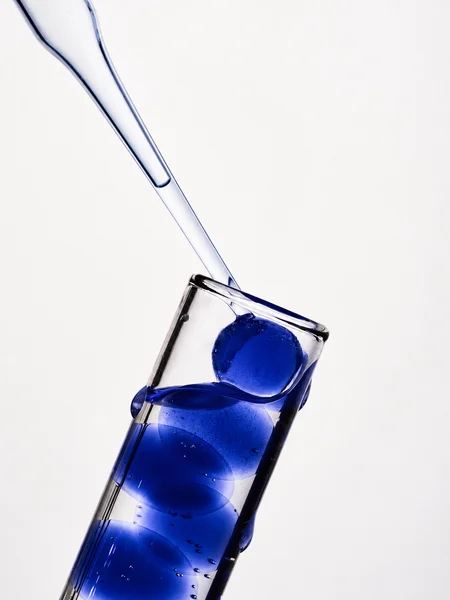
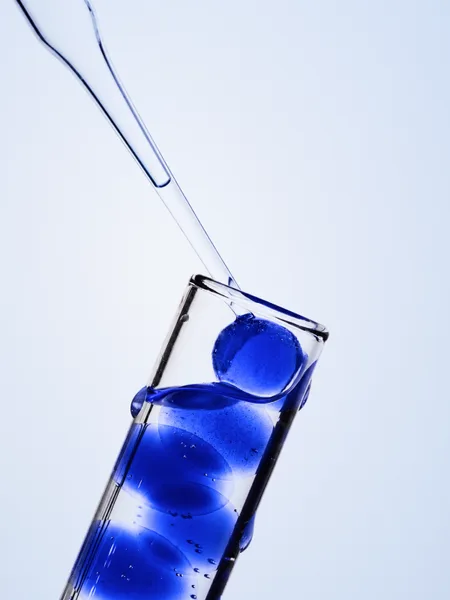
Исследования: новые фото пунктов списка

diff --git a/src/partials/home/research.html b/src/partials/home/research.html
@@ -59,7 +59,7 @@
         <div class="research-list__expand" data-js-research-expand>
           <div class="research-list__inner">
             <div class="research-list__media" data-js-research-content>
-              <img class="research-list__img" src="./assets/images/research-peptides.webp" alt="" width="300" height="400" loading="lazy">
+              <img class="research-list__img" src="./assets/images/research-peptides.webp" alt="" width="450" height="600" loading="lazy">
             </div>
           </div>
         </div>
@@ -88,7 +88,7 @@
         <div class="research-list__expand" data-js-research-expand>
           <div class="research-list__inner">
             <div class="research-list__media" data-js-research-content>
-              <img class="research-list__img" src="./assets/images/research-amino.webp" alt="" width="300" height="400" loading="lazy">
+              <img class="research-list__img" src="./assets/images/research-amino.webp" alt="" width="450" height="600" loading="lazy">
             </div>
           </div>
         </div>
